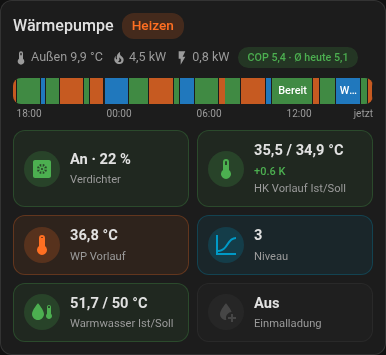
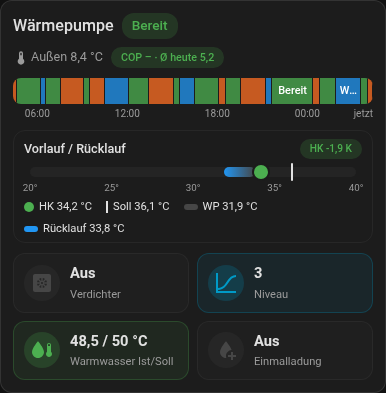
v0.5.0: no blocking manifest read, flow/return range bar
- frontend: get the version from the loaded integration instead of
  reading manifest.json in the event loop (HACS review)
- Card: flow/return range bar (return -> heat pump flow band, circuit
  flow dot, target tick, spread); replaces the flow tiles by default;
  option temp_bar

diff --git a/custom_components/open3e_gateway/www/open3e-heatpump-card.js b/custom_components/open3e_gateway/www/open3e-heatpump-card.js
@@ -5,6 +5,7 @@
  *   title: Wärmepumpe                       # optional
  *   timeline: true                          # optional: operating state bar (default on)
  *   hours_to_show: 24                       # optional: time span of the bar
+ *   temp_bar: true                          # optional: flow/return range bar (default on)
  *   tiles: [compressor, flow_hk, ...]       # optional: which tiles, in which order
  *   normal_level_entity: input_number.x     # optional: marks a raised heating curve
  *   entities: { flow_hk: sensor.my_flow }   # optional: override any entity
@@ -13,7 +14,7 @@
  * so renamed entities keep working. No external libraries. The card has a visual
  * editor (ha-form).
  */
-const VERSION = "0.4.0";
+const VERSION = "0.5.0";
 
 // tile key -> integration entity key (unique id without the config entry prefix)
 const KEYS = {
@@ -45,8 +46,9 @@ const KEYS = {
 
 // flow_hk and dhw show actual / target in one tile; flow_target, dhw_set,
 // return and heater can still be added through `tiles`.
-// The circuit tile was replaced by the operating state timeline; it can still be added.
-const DEFAULT_TILES = ["compressor", "flow_hk", "flow_wp", "level", "dhw", "one_time"];
+// The circuit tile was replaced by the operating state timeline, the flow tiles by the
+// temperature bar; all of them can still be added.
+const DEFAULT_TILES = ["compressor", "level", "dhw", "one_time"];
 const DEFAULT_HOURS = 24;
 const HISTORY_REFRESH_MS = 5 * 60 * 1000;
 
@@ -54,6 +56,7 @@ const TEXT = {
   de: {
     title: "Wärmepumpe", circuit: "Heizkreis", compressor: "Verdichter", flow_target: "Vorlauf-Soll",
     flow_hk: "HK Vorlauf Ist/Soll", flow_wp: "WP Vorlauf", return: "Rücklauf", level: "Niveau", dhw: "Warmwasser Ist/Soll", today: "Ø heute",
+    temps: "Vorlauf / Rücklauf", spread: "Spreizung", hk: "HK", wp: "WP", target: "Soll",
     dhw_set: "WW-Soll", one_time: "Einmalladung", heater: "Heizstab", outside: "Außen", errors: "Fehler",
     power: "Leistung", on: "An", off: "Aus", missing: "Integration open3e Gateway nicht gefunden", now: "jetzt",
     modes: { Off: "Aus", Heating: "Heizen", Automatic: "Automatik", Cooling: "Kühlen",
@@ -63,6 +66,7 @@ const TEXT = {
   en: {
     title: "Heat pump", circuit: "Heating circuit", compressor: "Compressor", flow_target: "Flow target",
     flow_hk: "Circuit flow act/target", flow_wp: "Heat pump flow", return: "Return", level: "Curve level", dhw: "Hot water act/target", today: "today",
+    temps: "Flow / return", spread: "Spread", hk: "Circuit", wp: "Heat pump", target: "Target",
     dhw_set: "DHW target", one_time: "One-time charge", heater: "Heater", outside: "Outside", errors: "errors",
     power: "Power", on: "On", off: "Off", missing: "open3e Gateway integration not found", now: "now", modes: {},
   },
@@ -127,6 +131,48 @@ class Open3eHeatpumpCard extends HTMLElement {
   _hours() { return Number(this._config.hours_to_show) > 0 ? Number(this._config.hours_to_show) : DEFAULT_HOURS; }
 
   _showTimeline() { return this._config.timeline !== false; }
+
+  // Live range bar: return -> heat pump flow as a band (= spread), circuit flow as a
+  // dot, the circuit flow target as a tick.
+  _tempBar() {
+    if (this._config.temp_bar === false) return "";
+    const t = this._t();
+    const hk = this._num("flow_hk"), target = this._num("flow_target"), wp = this._num("flow_wp"), ret = this._num("return");
+    const vals = [hk, target, wp, ret].filter((v) => v !== null);
+    if (!vals.length) return "";
+    // Scale in 5 K steps around the values, at least 20 K wide.
+    let lo = Math.floor((Math.min(...vals) - 3) / 5) * 5, hi = Math.ceil((Math.max(...vals) + 3) / 5) * 5;
+    while (hi - lo < 20) { lo -= 5; if (hi - lo < 20) hi += 5; }
+    const pos = (v) => Math.min(100, Math.max(0, ((v - lo) / (hi - lo)) * 100));
+    const opState = this._st("state")?.state;
+    const bandColor = opState === "dhw" ? C.water : opState === "heating" ? C.heat : C.off;
+    const d = hk !== null && target !== null ? hk - target : null;
+    const hkColor = d === null ? C.off : Math.abs(d) <= 2 ? C.ok : d < 0 ? C.water : C.heat;
+    // The spread only means something while the compressor runs.
+    const spread = wp !== null && ret !== null && this._on("compressor") ? wp - ret : null;
+    const k = (x) => `${x > 0 ? "+" : ""}${this._n(x)} K`;
+    const step = hi - lo > 40 ? 10 : 5;
+    const scale = [];
+    for (let v = lo; v <= hi; v += step) scale.push(`<span style="left:${pos(v)}%">${v}°</span>`);
+    const band = wp !== null && ret !== null
+      ? `<div class="band" style="left:${pos(Math.min(ret, wp))}%;width:${Math.abs(pos(wp) - pos(ret))}%;--c:${bandColor}"></div>` : "";
+    const tick = target !== null ? `<div class="tick" style="left:${pos(target)}%"></div>` : "";
+    const dot = hk !== null ? `<div class="dot" style="left:${pos(hk)}%;--c:${hkColor}"></div>` : "";
+    const item = (tile, sym, label, v, color) => v === null ? "" :
+      `<span class="li click" data-entity="${this._id(tile) || ""}"><i class="${sym}" style="--c:${color}"></i>${label} ${this._n(v)} °C</span>`;
+    return `<div class="temps">
+      <div class="thead"><span>${t.temps}</span><span class="tmeta">
+        ${spread !== null ? `<span class="click" data-entity="${this._id("flow_wp") || ""}">${t.spread} ${this._n(spread)} K</span>` : ""}
+        ${d !== null ? `<span class="chip" style="--c:${hkColor}">${t.hk} ${k(d)}</span>` : ""}</span></div>
+      <div class="track click" data-entity="${this._id("flow_hk") || ""}">${band}${tick}${dot}</div>
+      <div class="scale">${scale.join("")}</div>
+      <div class="legend">
+        ${item("flow_hk", "s-dot", t.hk, hk, hkColor)}
+        ${item("flow_target", "s-tick", t.target, target, "var(--primary-text-color)")}
+        ${item("flow_wp", "s-band", t.wp, wp, bandColor)}
+        ${item("return", "s-band", t.return, ret, C.water)}
+      </div></div>`;
+  }
 
   // Loads the state history of the operating state sensor (needs the recorder).
   async _loadHistory(id) {
@@ -374,7 +420,7 @@ class Open3eHeatpumpCard extends HTMLElement {
     this._sig = sig;
     const body = this._error
       ? `<div class="err">${this._t().missing}</div>`
-      : !this._map ? "" : `${this._header()}${this._timeline()}<div class="grid">${tiles.filter((x) => KEYS[x] || ICONS[x]).map((x) => this._tile(x)).join("")}</div>`;
+      : !this._map ? "" : `${this._header()}${this._timeline()}${this._tempBar()}<div class="grid">${tiles.filter((x) => KEYS[x] || ICONS[x]).map((x) => this._tile(x)).join("")}</div>`;
     this.shadowRoot.innerHTML = `<style>${STYLE}</style><ha-card>${body}</ha-card>`;
     this.shadowRoot.querySelectorAll(".click").forEach((el) => {
       const entityId = el.dataset.entity;
@@ -419,6 +465,25 @@ const STYLE = `
   .axis { position: relative; height: 14px; margin-top: 2px; font-size: 0.72em; color: var(--secondary-text-color); }
   .axis span { position: absolute; transform: translateX(-50%); white-space: nowrap; }
   .axis span.end { right: 0; transform: none; }
+  .temps { margin-bottom: 10px; padding: 8px 10px 4px; border-radius: 12px;
+           border: 1px solid color-mix(in srgb, var(--disabled-color, #9e9e9e) 25%, transparent); }
+  .thead { display: flex; justify-content: space-between; align-items: center; gap: 8px; font-size: 0.9em; font-weight: 500; margin-bottom: 8px; }
+  .tmeta { display: flex; align-items: center; gap: 8px; font-weight: 400; color: var(--secondary-text-color); font-size: 0.95em; }
+  .track { position: relative; height: 10px; border-radius: 5px; margin: 0 6px;
+           background: color-mix(in srgb, var(--disabled-color, #9e9e9e) 20%, transparent); }
+  .band { position: absolute; top: 0; bottom: 0; border-radius: 5px; min-width: 3px;
+          background: linear-gradient(90deg, var(--blue-color, #2196f3), var(--c)); }
+  .tick { position: absolute; top: -4px; bottom: -4px; width: 2px; margin-left: -1px; border-radius: 1px; background: var(--primary-text-color); }
+  .dot { position: absolute; top: 50%; width: 14px; height: 14px; margin: -7px 0 0 -7px; border-radius: 50%;
+         background: var(--c); box-shadow: 0 0 0 2px var(--card-background-color, #fff); }
+  .scale { position: relative; height: 14px; margin: 3px 6px 0; font-size: 0.7em; color: var(--secondary-text-color); }
+  .scale span { position: absolute; transform: translateX(-50%); }
+  .legend { display: flex; flex-wrap: wrap; gap: 4px 14px; font-size: 0.8em; margin-top: 4px; }
+  .li { display: inline-flex; align-items: center; gap: 5px; white-space: nowrap; }
+  .li i { display: inline-block; background: var(--c); }
+  .s-dot { width: 10px; height: 10px; border-radius: 50%; }
+  .s-tick { width: 2px; height: 12px; }
+  .s-band { width: 14px; height: 6px; border-radius: 3px; }
 `;
 
 // ha-form is only defined once HA has loaded it; an entities card editor pulls it in.
@@ -433,18 +498,18 @@ async function ensureHaForm() {
 
 const EDITOR_TEXT = {
   de: {
-    title: "Titel", timeline: "Verlauf Betriebszustand anzeigen", hours_to_show: "Stunden im Verlauf",
+    title: "Titel", temp_bar: "Vorlauf/Rücklauf-Balken anzeigen", timeline: "Verlauf Betriebszustand anzeigen", hours_to_show: "Stunden im Verlauf",
     tiles: "Kacheln (Reihenfolge per Ziehen)", normal_level_entity: "Normales Heizkurven-Niveau (Helfer)",
     entities: "Entitäten überschreiben (optional)", state: "Betriebszustand",
   },
   en: {
-    title: "Title", timeline: "Show operating state timeline", hours_to_show: "Hours in timeline",
+    title: "Title", temp_bar: "Show flow/return bar", timeline: "Show operating state timeline", hours_to_show: "Hours in timeline",
     tiles: "Tiles (drag to reorder)", normal_level_entity: "Normal curve level (helper)",
     entities: "Override entities (optional)", state: "Operating state",
   },
 };
 
-const TILE_CHOICES = ["compressor", "flow_hk", "flow_wp", "level", "dhw", "one_time", "circuit", "flow_target", "return", "dhw_set", "heater"];
+const TILE_CHOICES = ["compressor", "level", "dhw", "one_time", "flow_hk", "flow_wp", "return", "flow_target", "circuit", "dhw_set", "heater"];
 
 class Open3eHeatpumpCardEditor extends HTMLElement {
   setConfig(config) {
@@ -467,6 +532,7 @@ class Open3eHeatpumpCardEditor extends HTMLElement {
         { name: "timeline", selector: { boolean: {} } },
         { name: "hours_to_show", selector: { number: { min: 1, max: 168, step: 1, mode: "box", unit_of_measurement: "h" } } },
       ] },
+      { name: "temp_bar", selector: { boolean: {} } },
       { name: "tiles", selector: { select: { multiple: true, reorder: true,
         options: TILE_CHOICES.map((k) => ({ value: k, label: t[k] || k })) } } },
       { name: "normal_level_entity", selector: { entity: { domain: ["input_number", "number"] } } },
@@ -486,13 +552,14 @@ class Open3eHeatpumpCardEditor extends HTMLElement {
     }
     this._form.hass = this._hass;
     this._form.schema = this._schema();
-    this._form.data = { timeline: true, hours_to_show: DEFAULT_HOURS, tiles: DEFAULT_TILES, ...this._config };
+    this._form.data = { timeline: true, temp_bar: true, hours_to_show: DEFAULT_HOURS, tiles: DEFAULT_TILES, ...this._config };
   }
 
   _changed(value) {
     const cfg = { ...this._config, ...value };
     // Keep the YAML short: drop defaults and empty values.
     if (cfg.timeline === true) delete cfg.timeline;
+    if (cfg.temp_bar === true) delete cfg.temp_bar;
     if (Number(cfg.hours_to_show) === DEFAULT_HOURS || cfg.hours_to_show === undefined || cfg.hours_to_show === null) delete cfg.hours_to_show;
     if (Array.isArray(cfg.tiles) && cfg.tiles.join() === DEFAULT_TILES.join()) delete cfg.tiles;
     if (!cfg.title) delete cfg.title;

diff --git a/custom_components/open3e_gateway/frontend.py b/custom_components/open3e_gateway/frontend.py
@@ -9,7 +9,6 @@ datapoint field, so renamed entities keep working.
 
 from __future__ import annotations
 
-import json
 from pathlib import Path
 
 import voluptuous as vol
@@ -19,6 +18,7 @@ from homeassistant.components.frontend import add_extra_js_url
 from homeassistant.components.http import StaticPathConfig
 from homeassistant.core import HomeAssistant, callback
 from homeassistant.helpers import entity_registry as er
+from homeassistant.loader import async_get_integration
 
 from .const import DOMAIN
 
@@ -31,7 +31,8 @@ async def async_register_frontend(hass: HomeAssistant) -> None:
     if hass.data.get(DATA_REGISTERED):
         return
     hass.data[DATA_REGISTERED] = True
-    version = json.loads((Path(__file__).parent / "manifest.json").read_text())["version"]
+    # Version from the loaded manifest (no file I/O in the event loop).
+    version = (await async_get_integration(hass, DOMAIN)).version
     await hass.http.async_register_static_paths(
         [StaticPathConfig(f"{URL_BASE}/open3e-heatpump-card.js", str(CARD_FILE), True)]
     )

diff --git a/README.md b/README.md
@@ -55,21 +55,27 @@ the times, tap for the history). It reads the recorder history, so it needs the
 `recorder` (on by default) and fills up from the time the integration was
 installed.
 
+The flow/return bar shows, on one temperature scale, the heat pump's return →
+flow as a band (blue to orange while heating, blue for hot water), the circuit
+flow as a dot (green within ±2 K of the target, blue below, orange above) and
+the circuit flow target as a tick. The header of the bar shows the spread
+(while the compressor runs) and the circuit flow's deviation from the target.
+
 Tiles (tap for details / to change a setpoint):
 
 | Tile | Shows | Colour |
 |---|---|---|
 | Compressor | on/off + speed | green = running |
-| HK Vorlauf Ist/Soll | circuit flow / flow setpoint, deviation in K | green within ±2 K, blue below, orange above |
-| WP Vorlauf | heat pump flow | orange = heating, blue = hot water, grey = idle |
+| HK Vorlauf Ist/Soll (optional) | circuit flow / flow setpoint, deviation in K | green within ±2 K, blue below, orange above |
+| WP Vorlauf (optional) | heat pump flow | orange = heating, blue = hot water, grey = idle |
 | Niveau | heating curve level (tap to change) | amber when it differs from `normal_level_entity` |
 | Warmwasser Ist/Soll | tank / setpoint (tap to change the setpoint) | blue = charging, red = below the switch-on point, green = ok |
 | Einmalladung | one-time charge | blue = on |
 
 Options: `title`, `timeline` (default `true`), `hours_to_show` (default 24),
-`tiles` (list and order; default compressor, flow_hk, flow_wp, level, dhw,
-one_time; also available: circuit (heating circuit mode), flow_target, dhw_set,
-return, heater), `entities` (override any entity, e.g. `flow_hk: sensor.x`),
+`temp_bar` (default `true`), `tiles` (list and order; default compressor,
+level, dhw, one_time; also available: flow_hk, flow_wp, return, flow_target,
+circuit (heating circuit mode), dhw_set, heater), `entities` (override any entity, e.g. `flow_hk: sensor.x`),
 `entry_id`.
 
 ## Bus load
